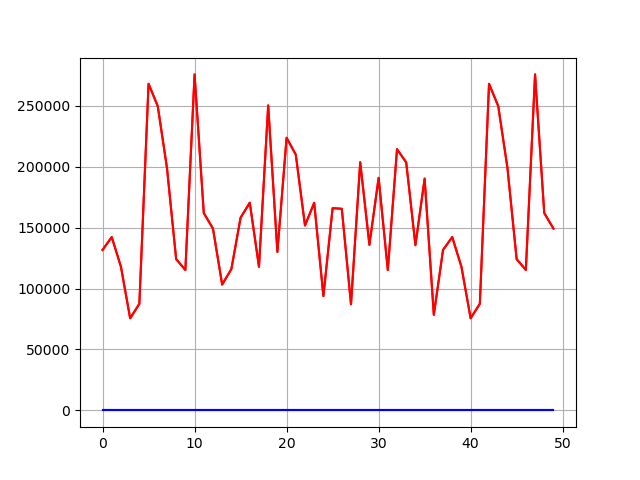
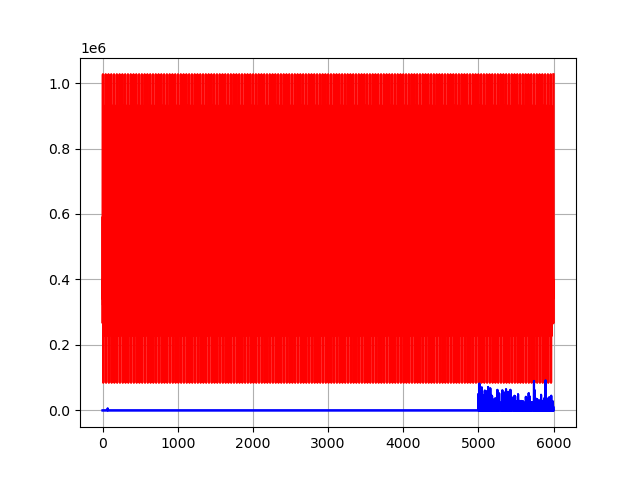
NEtwork ANalyzer

diff --git a/Count-Min-Sketch-Test.py b/Count-Min-Sketch-Test.py
@@ -29,36 +29,32 @@ def get_size(obj, seen=None):
 
 capture = pyshark.LiveCapture(interface='vEthernet (nat)')
 
-#Count Min Sketch
 
 
-n = 50  # universe size
+n = 6000  # universe size
 ch = 2
 real_counter = np.zeros((n, ch))
 cs_counter = CountMinSketch(n, ch)
 
-m = 10000000
-mi = 0
+m = 100000
 start = time.time()
 
-for packet in capture.sniff_continuously(packet_count=None):
-    mi += 1
-    if (mi <= m):
-        try:
-            x = int(packet['udp'].srcport)
-            c = int(packet['ip'].len)
-            cs_counter.insert(x, np.array(c))
-            cs_counter.insert(x, np.array(c))
-            real_counter[x] += c
-            print(mi)
+for packet in capture.sniff_continuously(packet_count=m):
 
-        except (RuntimeError, TypeError, NameError, Exception):
-            pass
-    else:
-        break
+    try:
+        x = int(packet['udp'].srcport)
+        c = int(packet['ip'].len)
+        cs_counter.insert(x, np.array(c))
+        cs_counter.insert(x, np.array(c))
+        real_counter[x] += c
+        print(x)
+    except (RuntimeError, TypeError, NameError, Exception):
+        print("Error Occured")
+        pass
+
         
 print(time.time() - start)
-#print(get_size(cs_counter))
+print(get_size(cs_counter))
 
 counter = cs_counter.query_all()
 

diff --git a/Count-Median-Sketch-Test.py b/Count-Median-Sketch-Test.py
@@ -29,32 +29,35 @@ def get_size(obj, seen=None):
 
 capture = pyshark.LiveCapture(interface='vEthernet (nat)')
 
-#Count Median Sketch
+
 
 n = 50  # universe size
 ch = 2
 real_counter = np.zeros((n, ch))
 cs_counter = CountMedianSketch(n, ch)
 
-m = 30000
-mi = 0
+m = 100000
 start = time.time()
 
-for packet in capture.sniff_continuously(packet_count=None):
-    if (mi < m):
-        try:
-            x = int(packet['udp'].srcport)
-            print(x)
-            c = int(packet['ip'].len)
-            cs_counter.insert(x, np.array(c))
-            cs_counter.insert(x, np.array(c))
-            real_counter[x] += c
-            mi += 1
 
-        except (RuntimeError, TypeError, NameError, Exception):
-            pass
-    else:
-        break
+
+for packet in capture.sniff_continuously(packet_count=m):
+
+    try:
+        x = int(packet['udp'].srcport)
+        c = int(packet['ip'].len)
+        cs_counter.insert(x, np.array(c))
+        cs_counter.insert(x, np.array(c))
+        real_counter[x] += c
+        print(x)
+
+
+    except (RuntimeError, TypeError, NameError, Exception):
+
+        print("Error Occured")
+
+        pass
+
 
 print(time.time() - start)
 print(get_size(cs_counter))
